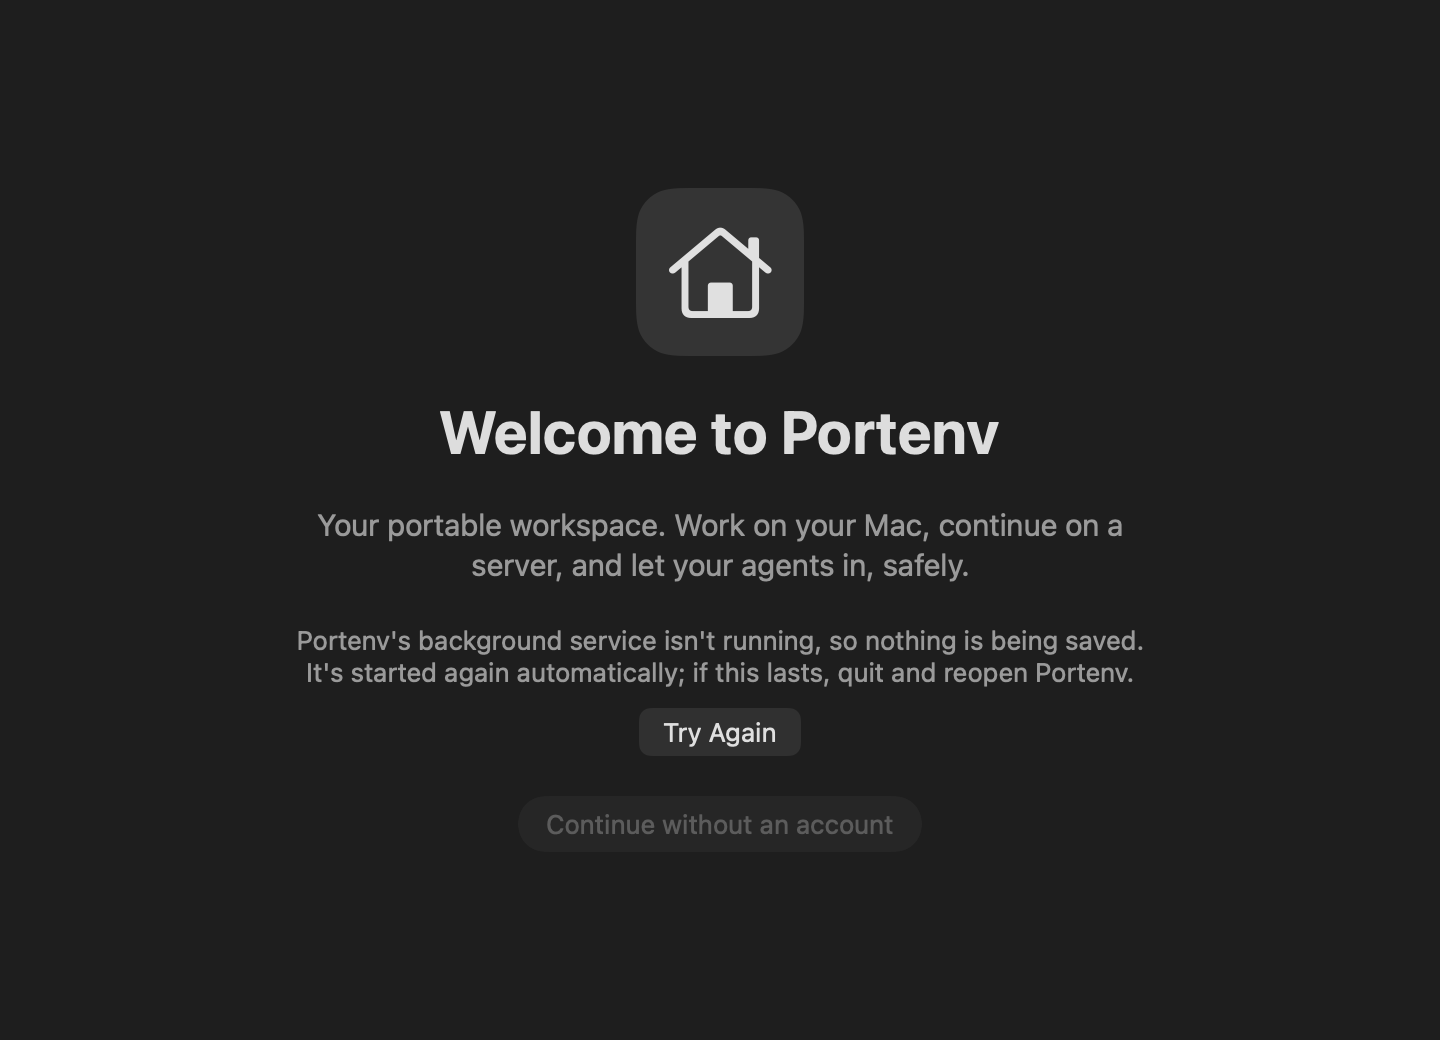
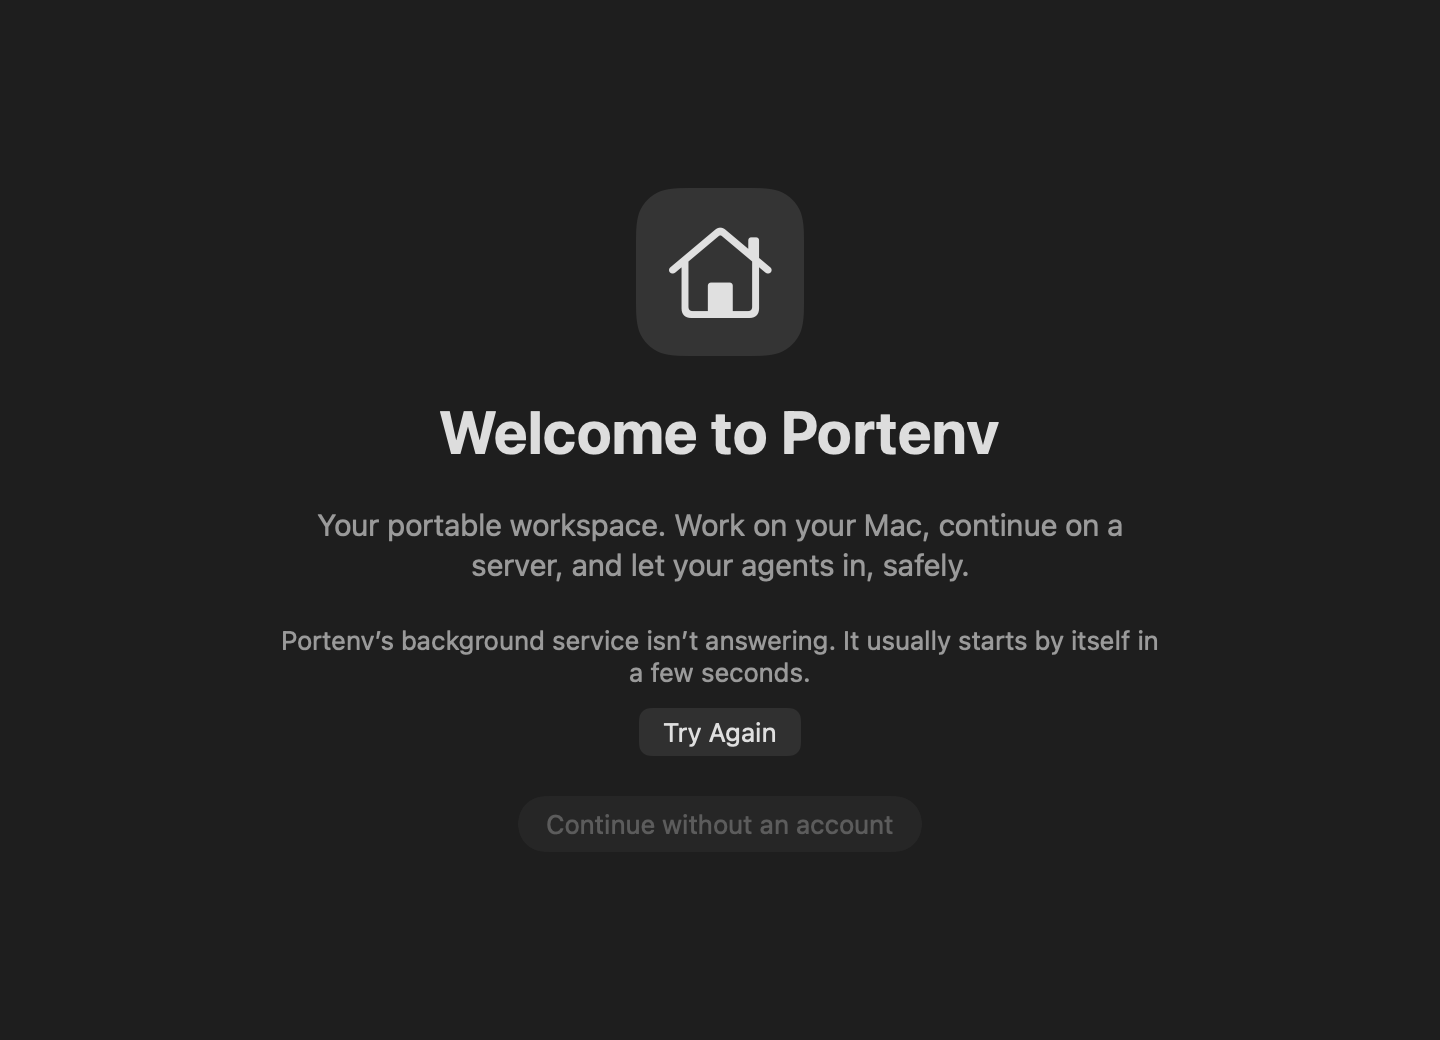
1.5: Welcome's service notice after two misses, in first-run words; Continue says why it's disabled (R-0116)
- Continue, disabled, carries a VoiceOver hint with the current reason:
  the Docker card's title or the service notice.
- First run's own line: "Portenv's background service isn't answering.
  It usually starts by itself in a few seconds." (not daemonGone's
  "nothing is being saved"); Try Again stays.
- The notice shows only after two missed checks in a row (about 4 s).
- Try Again does nothing while a check is in flight, so a late answer
  can't overtake a newer one; the notice going with a card still there
  announces the card's title.
- remote.go: a channel stuck in CONNECTING counts as slow, not down.
- Tests: two misses, misses only in a row, Try Again during a check,
  Continue's hint; service-down renders re-rendered.

Claude-Session: https://claude.ai/code/session_01PEHFfmAuJis3nT9YJmbt2j

Changed region(s): [[0.1875, 0.5846, 0.8125, 0.6769]]

diff --git a/apps/mac/Tests/PortenvKitTests/DockerCardTests.swift b/apps/mac/Tests/PortenvKitTests/DockerCardTests.swift
@@ -64,15 +64,18 @@ struct DockerCardTests {
         #expect(await slept.all == [.seconds(2), .seconds(2), .seconds(2)])
     }
 
-    /// portenvd not answering keeps the last outcome (no flicker) and says
-    /// the background service isn't running (R-0110), and leaving Welcome
-    /// stops the checks.
+    /// portenvd not answering keeps the last outcome (no flicker); two
+    /// misses in a row say the background service isn't answering (R-0110,
+    /// R-0116); leaving Welcome stops the checks.
     @Test func noAnswerKeepsTheCardAndLeavingStops() async {
         let flow = FirstRunFlow(service: FakeFirstRunService(), docker: nil)
-        let answers = Answers<DockerStatus?>([.notRunning, nil])
+        let answers = Answers<DockerStatus?>([.notRunning, nil, nil])
         await flow.followDocker(check: { await answers.next() }, sleep: { _ in
-            if await answers.taken == 1 { #expect(!flow.daemonGone) }
             if await answers.taken == 2 {
+                #expect(flow.docker == .notRunning)
+                #expect(!flow.daemonGone) // one miss: no notice
+            }
+            if await answers.taken == 3 {
                 #expect(flow.docker == .notRunning)
                 #expect(flow.daemonGone)
                 flow.docker = .running
@@ -80,14 +83,17 @@ struct DockerCardTests {
             }
         })
         #expect(flow.step == .protection)
-        #expect(await answers.taken == 2)
+        #expect(await answers.taken == 3)
     }
 
     /// No answer from portenvd before any outcome is never a silent dead
-    /// end: Welcome says the background service isn't running, and Try
-    /// Again's check clears it once portenvd answers (R-0110).
-    @Test func noAnswerSaysTheServiceIsntRunning() async {
+    /// end: after two misses in a row Welcome says the background service
+    /// isn't answering, and Try Again's check clears it once portenvd
+    /// answers (R-0110, R-0116).
+    @Test func twoMissesSayTheServiceIsntAnswering() async {
         let flow = FirstRunFlow(service: FakeFirstRunService(), docker: nil)
+        await flow.checkDocker { nil }
+        #expect(!flow.daemonGone)
         await flow.checkDocker { nil }
         #expect(flow.daemonGone)
         #expect(flow.docker == nil)
@@ -95,6 +101,61 @@ struct DockerCardTests {
         await flow.checkDocker { .running }
         #expect(!flow.daemonGone)
         #expect(flow.canContinue)
+    }
+
+    /// Misses count only in a row: an answer between two misses resets
+    /// the count (R-0116).
+    @Test func missesCountOnlyInARow() async {
+        let flow = FirstRunFlow(service: FakeFirstRunService(), docker: nil)
+        await flow.checkDocker { nil }
+        await flow.checkDocker { .notRunning }
+        await flow.checkDocker { nil }
+        #expect(!flow.daemonGone)
+        await flow.checkDocker { nil }
+        #expect(flow.daemonGone)
+    }
+
+    /// Try Again during a check in flight does nothing, so a late answer
+    /// can't overtake a newer one or bring the notice back (R-0116).
+    @Test func tryAgainWaitsForTheCheckInFlight() async {
+        let flow = FirstRunFlow(service: FakeFirstRunService(), docker: nil)
+        await flow.checkDocker { nil }
+        let (release, released) = AsyncStream<Void>.makeStream()
+        let first = Task { @MainActor in
+            await flow.checkDocker {
+                for await _ in release { break }
+                return .notRunning
+            }
+        }
+        while !flow.checkingDocker { await Task.yield() }
+        var asked = false
+        await flow.checkDocker { asked = true; return nil } // Try Again
+        #expect(!asked)
+        #expect(!flow.daemonGone) // the ignored miss isn't counted
+        released.yield()
+        await first.value
+        #expect(flow.docker == .notRunning)
+        #expect(!flow.daemonGone)
+        #expect(!flow.checkingDocker)
+    }
+
+    /// Continue, disabled, tells VoiceOver why: the card's title or the
+    /// service notice (R-0116). The notice going with a card still there
+    /// announces the card again.
+    @Test func continueSaysWhyItIsDisabled() async {
+        let flow = FirstRunFlow(service: FakeFirstRunService(), docker: nil)
+        #expect(flow.continueHint == nil) // before the first answer
+        await flow.checkDocker { .notRunning }
+        #expect(flow.continueHint == "Docker Desktop isn\u{2019}t running")
+        await flow.checkDocker { nil }
+        await flow.checkDocker { nil }
+        #expect(flow.continueHint == "Portenv\u{2019}s background service isn\u{2019}t answering. It usually starts by itself in a few seconds.")
+        #expect(flow.serviceNoticeAnnouncement == flow.continueHint)
+        await flow.checkDocker { .notRunning }
+        #expect(flow.serviceNoticeAnnouncement == "Docker Desktop isn\u{2019}t running")
+        await flow.checkDocker { .running }
+        #expect(flow.continueHint == nil)
+        #expect(!FirstRunText.serviceNotAnswering.lowercased().contains("box"))
     }
 
     /// VoiceOver hears a card appear or change, and "Docker Desktop is

diff --git a/apps/mac/Sources/PortenvKit/FirstRun.swift b/apps/mac/Sources/PortenvKit/FirstRun.swift
@@ -91,10 +91,16 @@ public final class FirstRunFlow {
     /// Docker Desktop on this Mac (R-0098): Welcome's Continue waits until
     /// it answers; nil until the first check does.
     public var docker: DockerStatus?
-    /// portenvd didn't answer Welcome's last Docker check: Welcome says the
-    /// background service isn't running, with Try Again, so Continue is
-    /// never disabled without a reason (R-0110).
+    /// portenvd missed Welcome's last two Docker checks in a row (about
+    /// 4 s): Welcome says the background service isn't answering, with Try
+    /// Again, so Continue is never disabled without a reason (R-0110,
+    /// R-0116). One slow answer isn't enough.
     public private(set) var daemonGone = false
+    /// Docker checks portenvd missed in a row.
+    private var dockerMisses = 0
+    /// A Docker check is in flight: Try Again doesn't start another, so a
+    /// late answer can't overtake a newer one (R-0116).
+    public private(set) var checkingDocker = false
     public private(set) var error: String?
     /// A plain notice (secondary text), like a step not built yet.
     public private(set) var notice: String?
@@ -226,13 +232,34 @@ public final class FirstRunFlow {
     }
 
     /// One Docker check: Try Again asks at once, between followDocker's.
+    /// While one is in flight, another does nothing.
     public func checkDocker(_ check: @MainActor () async -> DockerStatus?) async {
+        guard !checkingDocker else { return }
+        checkingDocker = true
+        defer { checkingDocker = false }
         if let status = await check() {
             docker = status
+            dockerMisses = 0
             daemonGone = false
         } else {
-            daemonGone = true
+            dockerMisses += 1
+            if dockerMisses >= 2 { daemonGone = true }
         }
+    }
+
+    /// Why Continue is disabled on Welcome, for VoiceOver (R-0116): the
+    /// service notice, or the Docker card's title; nil while it's enabled
+    /// or before the first answer.
+    public var continueHint: String? {
+        guard step == .welcome, !canContinue else { return nil }
+        return daemonGone ? FirstRunText.serviceNotAnswering : docker?.card?.title
+    }
+
+    /// What VoiceOver hears when the service notice comes or goes: the
+    /// notice, or, when it goes and a Docker card is still there, the
+    /// card's title (R-0116).
+    public var serviceNoticeAnnouncement: String? {
+        daemonGone ? FirstRunText.serviceNotAnswering : docker?.card?.title
     }
 
     private func trimmed(_ s: String) -> String { s.trimmingCharacters(in: .whitespacesAndNewlines) }
@@ -244,6 +271,9 @@ public enum FirstRunText {
     public static let welcomeLine = "Your portable workspace. Work on your Mac, continue on a server, and let your agents in, safely."
     /// The reduced Welcome (#16): no sign-in before Phase 3.
     public static let welcomeButton = "Continue without an account"
+    /// Welcome when portenvd misses two Docker checks (R-0116): nothing
+    /// exists to save yet, so not BoxController.daemonGone.
+    public static let serviceNotAnswering = "Portenv\u{2019}s background service isn\u{2019}t answering. It usually starts by itself in a few seconds."
 
     public static let protectionTitle = "Only you can open your boxes"
     public static let protectionLine = "Your keys stay on your devices, and Portenv never holds them. If you lose every device and your recovery key, your saves can’t be opened by anyone, including Portenv."

diff --git a/apps/mac/Sources/Portenv/FirstRunView.swift b/apps/mac/Sources/Portenv/FirstRunView.swift
@@ -89,13 +89,14 @@ struct FirstRunView: View {
             // every 2 s.
             if flow.daemonGone {
                 VStack(spacing: 10) {
-                    Text(BoxController.daemonGone)
+                    Text(FirstRunText.serviceNotAnswering)
                         .foregroundStyle(.secondary)
                         .multilineTextAlignment(.center)
                         .fixedSize(horizontal: false, vertical: true)
                     Button(InspectorText.tryAgain) {
                         Task { await flow.checkDocker { await DockerDesktop.status() } }
                     }
+                    .disabled(flow.checkingDocker)
                 }
                 .frame(maxWidth: 440)
             } else if let card = flow.docker?.card {
@@ -109,6 +110,8 @@ struct FirstRunView: View {
                 .controlSize(.large)
                 .keyboardShortcut(.defaultAction)
                 .disabled(!flow.canContinue)
+                // Disabled, it says why (R-0116).
+                .accessibilityHint(flow.continueHint ?? "")
             // Counting needs the update check, which tester builds don't
             // have yet: hidden until counting exists (R-0098, R-0106).
             #if PORTENV_COUNTING
@@ -128,8 +131,11 @@ struct FirstRunView: View {
                 AccessibilityNotification.Announcement(words).post()
             }
         }
-        .onChange(of: flow.daemonGone) { _, gone in
-            if gone { AccessibilityNotification.Announcement(BoxController.daemonGone).post() }
+        // The notice coming, or going with a card still there (R-0116).
+        .onChange(of: flow.daemonGone) { _, _ in
+            if let words = flow.serviceNoticeAnnouncement {
+                AccessibilityNotification.Announcement(words).post()
+            }
         }
     }
 

diff --git a/apps/mac/Sources/Portenv/ScreenRenders.swift b/apps/mac/Sources/Portenv/ScreenRenders.swift
@@ -47,6 +47,7 @@ enum ScreenRenders {
             // Welcome when portenvd doesn't answer the check (R-0110).
             let gone = FirstRunFlow(service: Sample(), docker: nil)
             await gone.checkDocker { nil }
+            await gone.checkDocker { nil } // two misses in a row
             try snapshot(FirstRunView(flow: gone, opened: { _ in }, followsDocker: false),
                          name: "first-run-1-welcome-service-down", in: dir)
             // New Box… from the box list (the new-box boards).

diff --git a/core/daemon/remote.go b/core/daemon/remote.go
@@ -257,6 +257,9 @@ func (s *Server) boxState(ctx context.Context, name string, withPackages bool) (
 		actx, cancel := context.WithTimeout(ctx, time.Second)
 		rd, err := a.GetReadiness(actx, &agentv1.GetReadinessRequest{})
 		cancel()
+		// A channel stuck in CONNECTING (dropped packets rather than a
+		// refused connection) ends at this deadline, which counts as slow,
+		// not down: only Unavailable marks the agent unavailable.
 		ob.noteReadiness(err)
 		if err == nil {
 			r.FailedPackages, r.PackagesError = rd.GetFailedPackages(), rd.GetPackagesError()

diff --git a/docs/PLAN.md b/docs/PLAN.md
@@ -1162,7 +1162,7 @@ Reduced: no sign-in, Only you, Keychain keys, the recovery key; the Welcome scre
 - **Built so far** (lane C's first milestone, 2026-10-10):
   - **The launch decision:** with no box, first run; with a box that isn't on this Mac, the box list, saying so; never a window for a missing box (`LaunchDecision`, tested). The app no longer defaults to "demo".
   - **The first-run screens and their flow,** reduced as above: Continue is enabled only when the step is complete; the recovery key needs the "I've saved" checkbox; box names follow the CLI's rule. "Count me in usage numbers" is already on, with the exact fields one click away, on Welcome (before any update check). Until counting exists, builds hide that checkbox (the `PORTENV_COUNTING` build flag; the code stays) (R-0098, R-0106).
-  - **Docker Desktop on Welcome** (R-0098, the `first-run-1-welcome-docker-*` boards): until the `apple` driver ships, Welcome checks through portenvd (`GetEngine`, which pings the engine through the driver) at once and every 2 s while a card shows. "Docker Desktop isn't running" offers Open Docker Desktop, and "Portenv needs Docker Desktop for now" offers Get Docker Desktop…. Continue waits until Docker answers. VoiceOver hears a card appear or change, and "Docker Desktop is running" only when a shown card goes, so someone with Docker already running hears nothing (R-0110). Another engine answering on the socket counts as running; Docker Desktop in the Trash counts as missing. If portenvd doesn't answer a check, Welcome shows the "background service isn't running" notice with Try Again instead of a silently disabled Continue (R-0110). If Docker stops later, an open box on this Mac whose agent is unavailable says "This Mac · Docker Desktop isn't running", with the same button, in its state line and window. portenvd notices a dropped agent channel on its own: the state poll's readiness question (every 5 s while the app watches) marks the agent unavailable, and an answer clears it, as CheckBox does (R-0110).
+  - **Docker Desktop on Welcome** (R-0098, the `first-run-1-welcome-docker-*` boards): until the `apple` driver ships, Welcome checks through portenvd (`GetEngine`, which pings the engine through the driver) at once and every 2 s while a card shows. "Docker Desktop isn't running" offers Open Docker Desktop, and "Portenv needs Docker Desktop for now" offers Get Docker Desktop…. Continue waits until Docker answers. VoiceOver hears a card appear or change, and "Docker Desktop is running" only when a shown card goes, so someone with Docker already running hears nothing (R-0110). Another engine answering on the socket counts as running; Docker Desktop in the Trash counts as missing. If portenvd misses two checks in a row (about 4 s), Welcome says "Portenv's background service isn't answering. It usually starts by itself in a few seconds." with Try Again instead of a silently disabled Continue; Try Again never runs alongside a check in flight, and Continue's VoiceOver hint gives the current reason (R-0110, R-0116). If Docker stops later, an open box on this Mac whose agent is unavailable says "This Mac · Docker Desktop isn't running", with the same button, in its state line and window. portenvd notices a dropped agent channel on its own: the state poll's readiness question (every 5 s while the app watches) marks the agent unavailable, and an answer clears it, as CheckBox does (R-0110).
   - **The box list:** open a box, or New Box… (first run's first-box step).
   - **Move to Applications** (lane C's second milestone): before the login item is registered, an app outside /Applications, App Translocation included, asks "Move Portenv to Applications?". Move copies it there (an older Portenv is replaced, anything else named Portenv.app never is), opens the copy and quits; Not Now isn't asked again for the same location. Dev builds can redirect the copy with `PORTENV_MOVE_TO` so UI tests never replace the real app.
   - **portenvd not starting** (R-0028, R-0032): while waiting for portenvd, the app reads the login item's status and `launchctl print` for its job.
